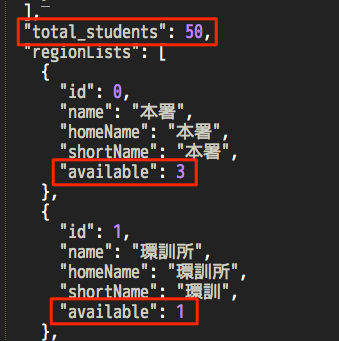
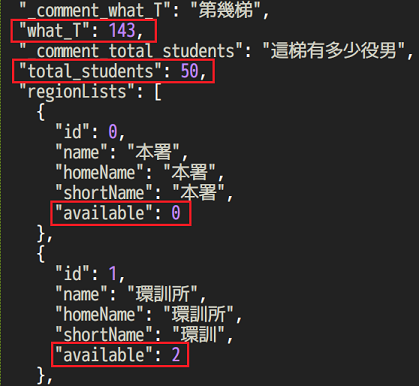
doc: update README.md and images

diff --git a/README.md b/README.md
@@ -9,43 +9,45 @@ Although this system is designed for EPA, it can be easily modified to fit other
 ## Demo
 
 [Demo page](http://chunnorris.net/demo/epa-sms/index.html)
+
 [Demo file](http://chunnorris.net/demo/epa-sms/demo.txt)
 
 
 ## 步驟
 
-1. 事前準備，修改役男人數、各縣市名額等參數
-2. 整理役男名單，並彙整成此系統可接受的格式
-3. 開始預排
-4. 儲存並列印預排之結果
+1. 事前準備，修改役男人數、各縣市名額等參數。
+2. 整理役男名單，並彙整成此系統可接受的格式。
+3. 開始預排。
+4. 儲存並列印預排之結果。
 
 
-## 步驟說明
+## （一）修改參數
 
-### （一）修改參數
+1. 依照這一梯的役男總人數修改 **region.json** 的 what_T 欄位
+2. 依照這一梯的役男總人數修改 **region.json** 的 total_students 欄位
+3. 依照這一梯各縣市的名額修改 **region.json** 的 available 欄位
 
-TODO: 修改 what_T 欄位
-1. 依照這一梯的役男總人數修改 **region.json** 的 total_students 欄位
-2. 依照這一梯各縣市的名額修改 **region.json** 的 available 欄位
 ![](img/json1.png)
-TODO: 更新圖片
 
 
-### （二）外部匯入資料之格式
+## （二）外部匯入資料之格式
 
 除了手動輸入外，也可以從檔案直接匯入資料。
 外部匯入的資料必須符合下列格式：
 
 1. 必須是以 **ANSI Big5** 編碼的 csv 檔案，
 或是有 BOM 的 UTF-8 編碼的 csv 檔案。
-2. csv 表格內總共三欄，第一欄為號碼、第二欄為戶籍地、第三欄為分數。如圖片：![](img/csv1.png)
+2. csv 表格內總共三欄，第一欄為號碼、第二欄為戶籍地、第三欄為分數。如下圖：
+
+![](img/csv1.png)
 
 
-## 範例流程
+## （三）外部匯入資料範例流程
 
 (1) 拿到教務組給的 *戶籍地* 與 *成績* 資料
 
 ![](img/step1.png)
+
 ![](img/step2.png)
 
 (2) 開新檔案 -> 新增 -> 空白活頁簿，貼上資料，第一欄為號碼、第二欄為戶籍地、第三欄為分數。
@@ -63,6 +65,7 @@ TODO: 更新圖片
 (5) 存檔，遇到警告時請按確定
 
 ![](img/step6.png)
+
 ![](img/step7.png)
 
 (6) 關閉檔案，此時選擇不要儲存(剛剛已經儲存過了)
@@ -71,66 +74,68 @@ TODO: 更新圖片
 
 ### 特殊情形
 
-假設某梯役男共 50 人，其中 7 號同學在開始受訓後才驗退而退訓，此時不用修改總人數，一樣將 7 號同學的資料放進 csv 中，只要在成績欄填入 NA 即可。如此一來，本系統就不會將 7 號同學算入平均分數，以及之後的預排演算法。
+狀況：假設某梯役男共 50 人，其中 7 號同學在開始受訓後才驗退而退訓，剩下 49 人。
+
+解法：不用修改程式總人數，一樣將 7 號同學的資料放進 csv 中，並在其成績欄填入 NA 。如此一來，本系統就不會將 7 號同學算入平均分數以及之後的預排演算法中。
 
 ![](img/stepAdd.png)
 
-TODO: 圖片縮小
 
-
-### （三）開始預排
+## （三）開始預排
 
 1. 開啟 Firefox 瀏覽器，若尚未安裝可以[由此下載](https://mozilla.com.tw/firefox/new/)
-2. 從 github 下載本程式，解壓縮後開啟 index.html ![](img/githubFork1.png)
-3. 點選左上角的瀏覽按鈕，讀取之前的 csv 或是 txt 檔案當作範例，並按下下方的開始預排
+2. 從 github 右方的 download zip 按鈕下載本程式，解壓縮後用 firefox 開啟 index.html ![](img/githubFork1.png)
+3. 點選左上角的瀏覽按鈕，讀取之前的 csv 或是 txt 檔案當作範例，並按下下方的「開始預排」按鈕
 ![](img/load1.png)
 
-以此範例向役男講解本系統：
+將畫面往下捲，以此範例檔案向役男講解本系統：
 
-> 1. 確認平均分數
-> 2. 講解名額與加減人數
-> 3. 上方顏色區塊說明（分發規則說明）
+> 1. 確認平均分數是否正確
+> 2. 講解名額與加減人數欄位
+> 3. 說明上方顏色區塊（分發規則說明）
 > 4. 下方尚未分配到的學號、點選可自動搜尋最佳落點
 
-![](img/explain1.png) TODO: 圖片要更新
+![](img/explain1.png)
 
 
-接著講解預排的規則、正式分發的步驟
+接著講解預排的規則：
 
 > 1. 被點到號碼的役男請大聲說出自己的志願
 > 2. 當切換到自己所屬的頁面時，請檢查自己的戶籍地與成績是否正確
 > 3. 每回合結束後，會有三到五分鐘討論時間
 > 4. 告知預排截止時間（問管理幹部）
-> 5. 詢問是否有不懂分發規則的，或有其他疑問
+> 5. 詢問是否有不懂分發規則的，或有其他疑問的請發問
 
-接下來開始正式預排
+接下來開始正式預排：
 
 1. 重新整理頁面，並讀取這梯的 csv 或是 txt 檔 (e.g. *144T_input_file.csv*)
-2. 第一輪：一個一個叫號碼，選擇志願。家因優先者若戶籍地沒開缺額，可以優先選擇戶籍地周圍縣市
+2. 第一輪：照號碼叫，選擇志願。家因優先者若戶籍地沒開缺額，可優先選擇戶籍地周圍縣市
 3. 存擋、看預排結果、討論
 4. 第二輪：一到十號想修改志願的舉手，依此類推
 5. 存擋、看預排結果、討論
 6. 第三輪之後，想修改的直接舉手
-7. 當尚未分配到的人數越來越少時，可以直接點選其號碼，系統會提示這個號碼還剩哪些地方可以選擇
+7. 當尚未分配到的人數越來越少時，直接點選其號碼，系統會提示這個號碼還剩哪些地方可以選擇
 
-請記得每次按下預排按鈕後 **都先存擋（txt檔）**，以避免突發狀況造成資料流失、影響預排時間。
+請每次按下預排按鈕後 **都先存擋（txt檔）**，以避免突發狀況造成資料流失、影響預排時間。
 
-預排結束後，可讓役男們拍照留念，也可截圖備份，並按下右下角輸出表格給教務組。
+預排結束後，可讓役男們拍照留念，也可截圖備份。
 
+預排結束後，按下右下角輸出表格給教務組。
 
 
 ## 其他設定
 
-js/global.js 內的 printRound_N 可以改變預排結果的縣市欄位中，顯示幾筆資料後才換行
+js/global.js 內的 **printRound_N** 可以設定預排結果的「縣市欄位」顯示幾筆資料後才換行
 
-    printRound_N = 3; // 每三筆資料就換行
+    printRound_N = 3; // 每三筆資料就換行，如下圖：
 ![](img/printRound1.png)
 
-    printRound_N = 6; // 每六筆資料才換行
+    printRound_N = 6; // 每六筆資料才換行，如下圖：
 ![](img/printRound2.png)
 
+- - -
 
-js/global.js 內的 fontColors{} 可以改變不同階段錄取的顏色
+js/global.js 內的 **fontColors{}** 可以改變不同階段錄取的顏色
 
 使用不同顏色來代表 不同階段錄取 的役男
 
@@ -149,17 +154,11 @@ js/global.js 內的 fontColors{} 可以改變不同階段錄取的顏色
 
 
 
-## Note
-
-Actually, the offilne version can save data in the browser's storage. But most employees prefer txt files.
-
-
 ## Todo Lists
 
 - 台北市 跟 臺北市 到底要用哪個字？
 - 123456789123
 - 裝 firefox, notepad++, D碟不會自動回復
-- Tutorial pages with screenshots
 - Chrome modification.
   - https://stackoverflow.com/questions/2541949/problems-with-jquery-getjson-using-local-files-in-chrome
   - MAC: open /Applications/Google\ Chrome.app --args --allow-file-access-from-files
